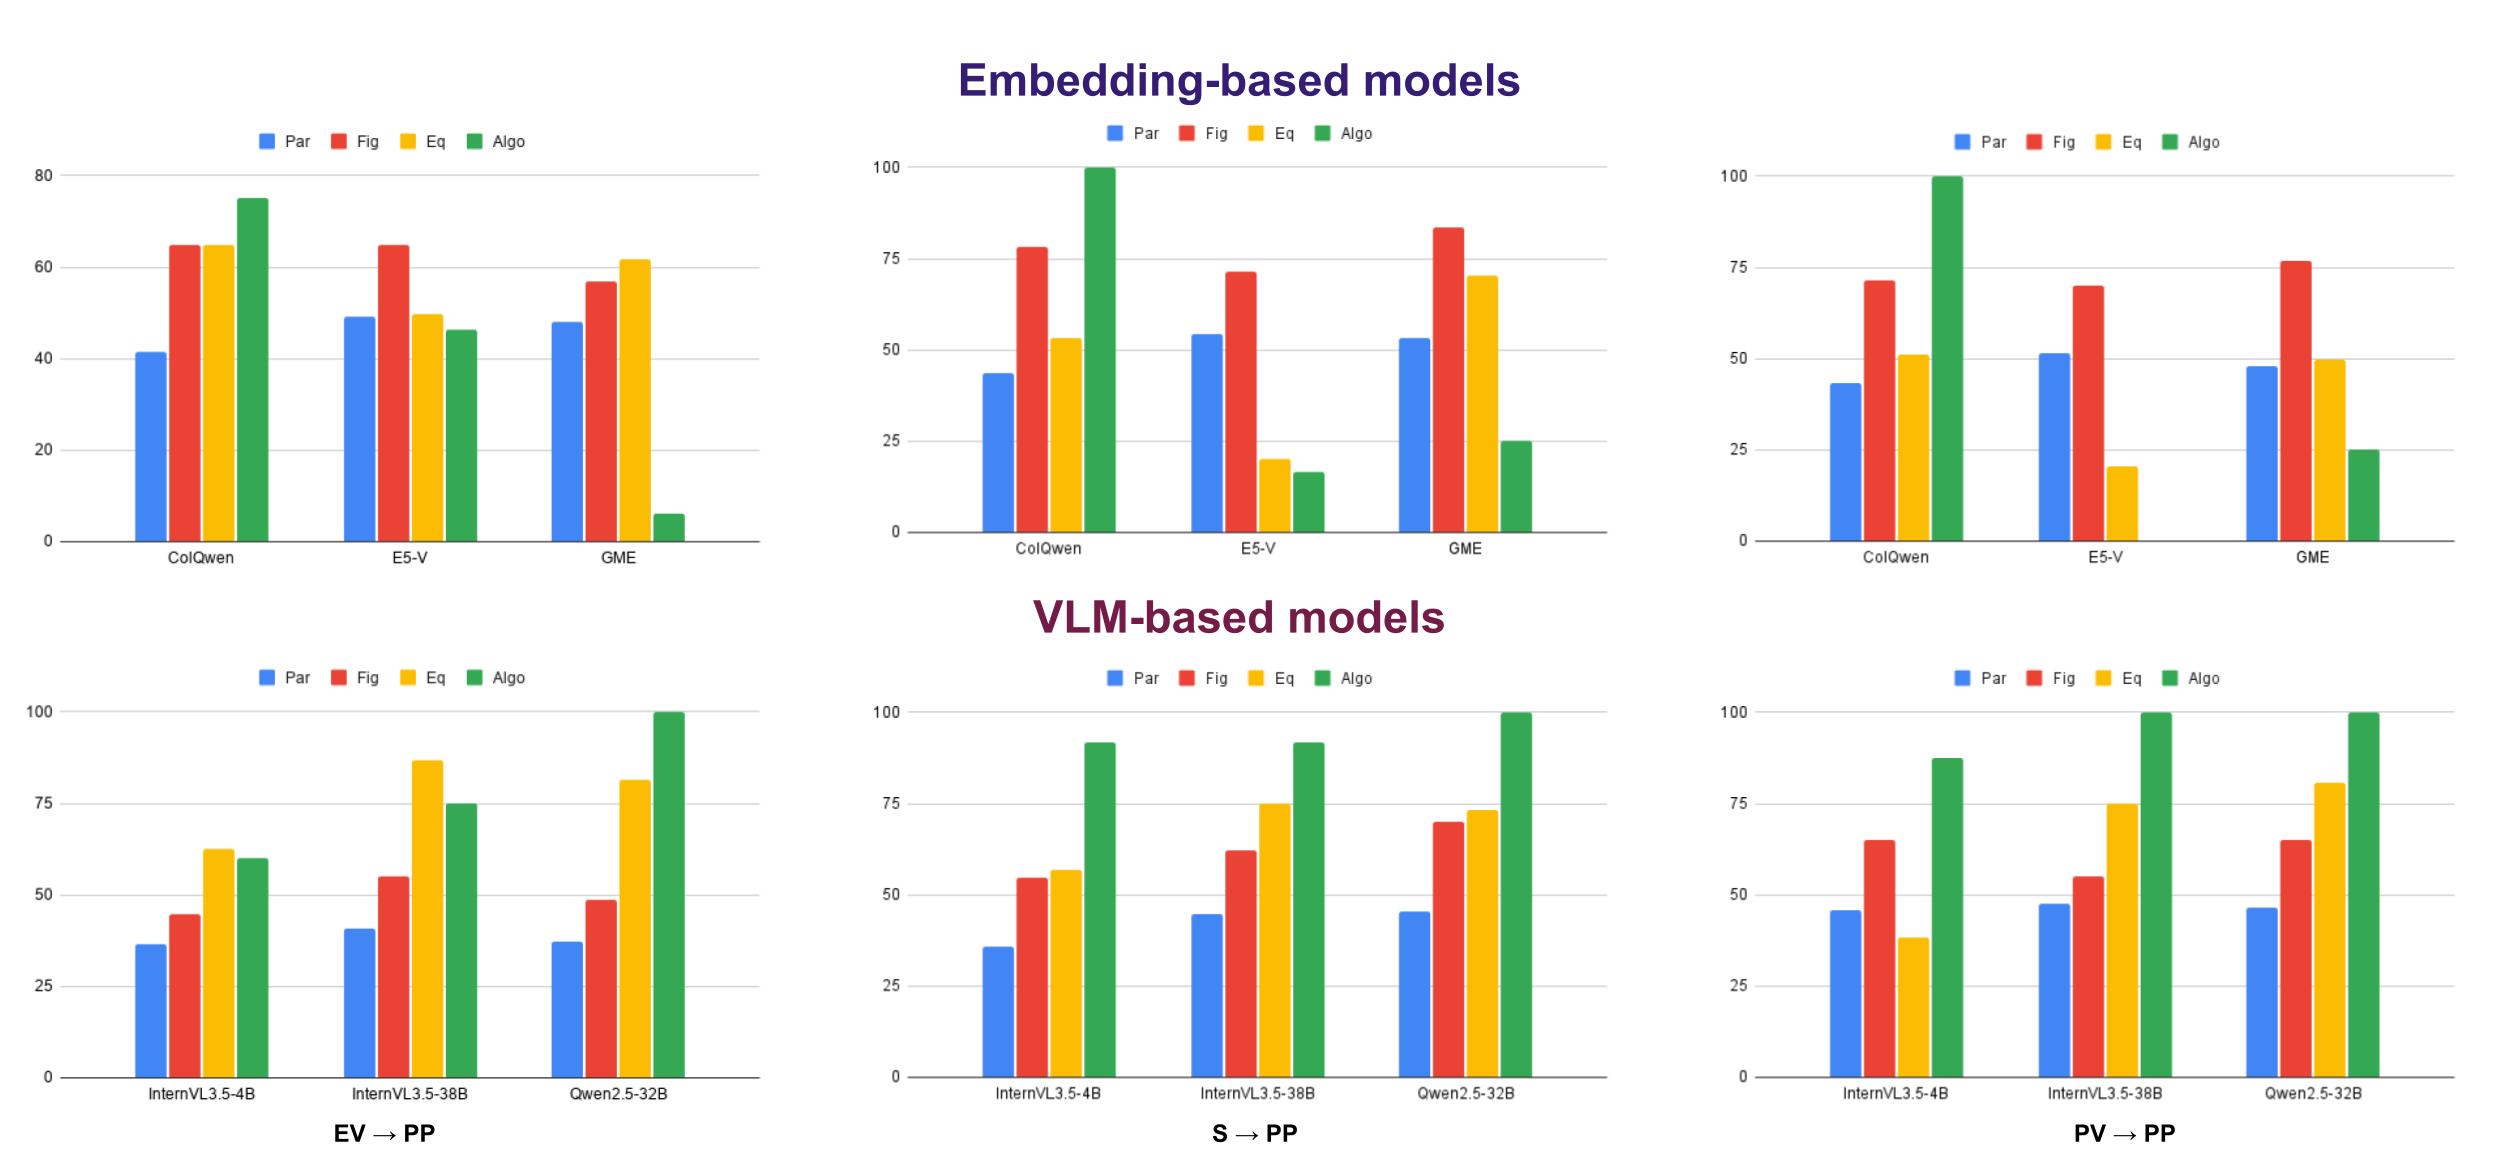
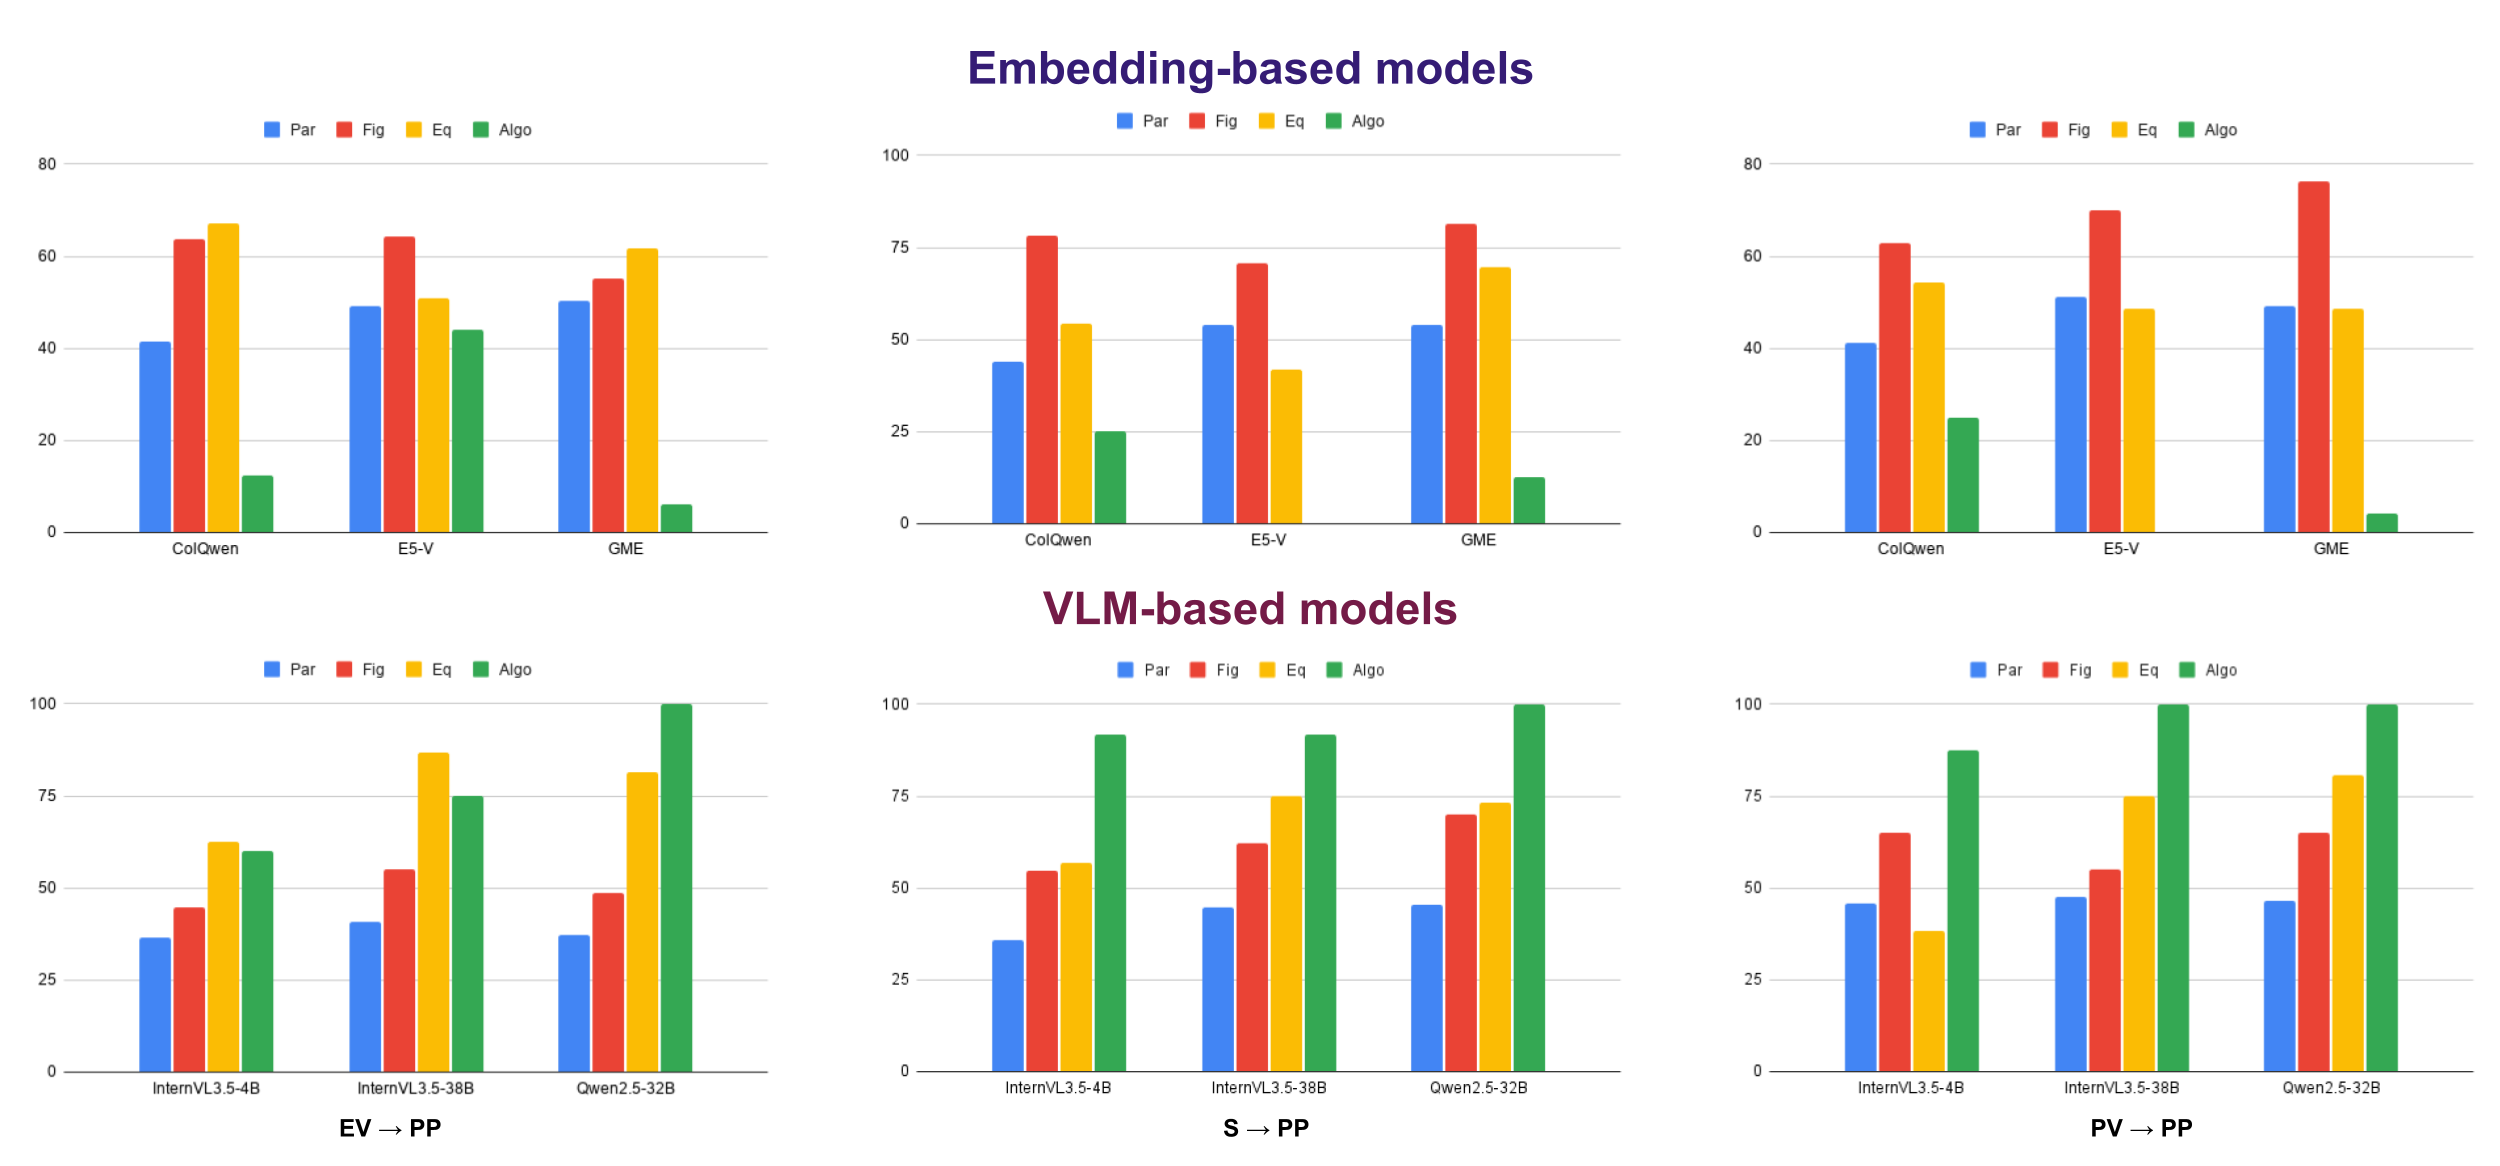
arxiv link

diff --git a/index.html b/index.html
@@ -74,7 +74,7 @@
 
 
   <!-- TODO: Replace with your paper title and authors -->
-  <title>PAPER_TITLE - AUTHOR_NAMES | Academic Research</title>
+  <title>Unifying Scientific Communication - Megha, Vineeth, Jawahar</title>
   
   
   
@@ -215,24 +215,25 @@
                     <div class="publication-links">
                          <!-- TODO: Update with your arXiv paper ID -->
                       <span class="link-block">
-                        <a href="https://arxiv.org/pdf/<ARXIV PAPER ID>.pdf" target="_blank"
-                        class="external-link button is-normal is-rounded is-dark">
+                      <a href="2026124838.pdf" target="_blank"
+                      class="external-link button is-normal is-rounded is-dark">
                         <span class="icon">
                           <i class="fas fa-file-pdf"></i>
                         </span>
                         <span>Paper</span>
                       </a>
                     </span>
-
                     <!-- TODO: Add your supplementary material PDF or remove this section -->
                     <span class="link-block">
-                      <a href="static/pdfs/supplementary_material.pdf" target="_blank"
-                      class="external-link button is-normal is-rounded is-dark">
-                      <span class="icon">
-                        <i class="fas fa-file-pdf"></i>
+                      <span class="link-block">
+                        <a href="40322_supp.pdf" target="_blank"
+                        class="external-link button is-normal is-rounded is-dark">
+                          <span class="icon">
+                            <i class="fas fa-file-pdf"></i>
+                          </span>
+                          <span>Supplementary</span>
+                        </a>
                       </span>
-                      <span>Supplementary</span>
-                    </a>
                   </span>
 
                   <!-- TODO: Replace with your GitHub repository URL -->
@@ -248,7 +249,7 @@
 
                 <!-- TODO: Update with your arXiv paper ID -->
                 <span class="link-block">
-                  <a href="https://arxiv.org/abs/<ARXIV PAPER ID>" target="_blank"
+                  <a href="https://arxiv.org/abs/2605.05831" target="_blank"
                   class="external-link button is-normal is-rounded is-dark">
                   <span class="icon">
                     <i class="ai ai-arxiv"></i>
@@ -275,7 +276,8 @@
         <div class="content has-text-justified">
           <!-- TODO: Replace with your paper abstract -->
           <p>
-            The communication of scientific knowledge has become increasingly multimodal, spanning text, visuals, and speech through materials such as research papers, slides, and recorded presentations. These different representations collectively convey a study’s reasoning, results, and insights, offering complementary perspectives that enrich understanding. However, despite their shared purpose, such materials are rarely connected in a structured way. The absence of explicit links across formats makes it difficult to trace how concepts, visuals, and explanations correspond, limiting unified exploration and analysis of research content. To address this gap, we introduce the Multimodal Conference Dataset (MCD), the first benchmark that integrates research papers, presentation videos, explanatory videos, and slides from the same works. We evaluate a range of embedding-based and vision–language models to assess their ability to discover fine-grained cross-format correspondences, establishing the first systematic benchmark for this task. Our results show that vision–language models are robust but struggle with fine-grained alignment, while embedding-based models capture text–visual correspondences well but equations and symbolic content form distinct clusters in the embedding space. These findings highlight both the strengths and limitations of current approaches and point to key directions for future research in multimodal scientific understanding.
+            The communication of scientific knowledge has become increasingly multimodal, spanning text, visuals, and speech through materials such as research papers, slides, and recorded presentations. These different representations collectively convey a study’s reasoning, results, and insights, offering complementary perspectives that enrich understanding. However, despite their shared purpose, such materials are rarely connected in a structured way. The absence of explicit links across formats makes it difficult to trace how concepts, visuals, and explanations correspond, limiting unified exploration and analysis of research content.
+To address this gap, we introduce the \textit{Multimodal Conference Dataset (MCD)}, the first benchmark that integrates research papers, presentation videos, explanatory videos, and slides from the same works. We evaluate a range of embedding-based and vision–language models to assess their ability to discover fine-grained cross-format correspondences, establishing the first systematic benchmark for this task. Our results show that vision–language models are robust but struggle with fine-grained alignment, while embedding-based models capture text–visual correspondences well but equations and symbolic content form distinct clusters in the embedding space. These findings highlight both the strengths and limitations of current approaches and point to key directions for future research in multimodal scientific understanding. 
           </p>
         </div>
       </div>
@@ -322,12 +324,13 @@
               <!-- EV -->
               <tr><td colspan="10"><b>Traversal: EV → PP</b></td></tr>
 
-              <tr><td>ColQwen2-VL</td><td>2.21B</td><td>47.27</td><td>41.52</td><td>40.16</td><td>61.40</td><td>64.90</td><td>63.16</td><td>64.98</td><td>75</td></tr>
-              <tr><td>E5-V</td><td>8.4B</td><td>50.00</td><td>49.09</td><td>47.53</td><td>62.96</td><td>64.95</td><td>38.46</td><td>49.79</td><td>46.43</td></tr>
+              <!-- EV -->
+              <tr><td>ColQwen2-VL</td><td>2.21B</td><td>47.27</td><td>41.52</td><td>40.37</td><td>61.40</td><td>63.80</td><td>63.16</td><td>67.01</td><td>12.50</td></tr>
+              <tr><td>E5-V</td><td>8.4B</td><td>50.29</td><td>49.05</td><td>47.50</td><td>62</td><td>64.40</td><td>39.71</td><td>50.84</td><td>44</td></tr>
               <tr><td>GME-Qwen2VL-2B (w/o instr.)</td><td>2.2B</td><td>53.64</td><td>48.10</td><td>46.28</td><td>54.39</td><td>56.96</td><td>57.89</td><td>61.75</td><td>6.25</td></tr>
               <tr><td>GME-Qwen2VL-2B (with instr.)</td><td>2.2B</td><td>53.64</td><td>50.21</td><td>49.70</td><td>50.88</td><td>55.23</td><td>52.63</td><td>61.84</td><td>6.25</td></tr>
-              <tr><td>GME-Qwen2VL-7B (w/o instr.)</td><td>8.2B</td><td>47.27</td><td>44.90</td><td>45.18</td><td>38.60</td><td>45.67</td><td>47.37</td><td>47.90</td><td>62.50</td></tr>
-              <tr><td>GME-Qwen2VL-7B (with instr.)</td><td>8.2B</td><td>50.91</td><td>48.19</td><td>46.47</td><td>47.37</td><td>51.30</td><td>47.37</td><td>53.26</td><td>62.50</td></tr>
+              <tr><td>GME-Qwen2VL-7B (w/o instr.)</td><td>8.2B</td><td>47.27</td><td>44.90</td><td>45.18</td><td>38.60</td><td>45.67</td><td>47.37</td><td>47.90</td><td>62.5</td></tr>
+              <tr><td>GME-Qwen2VL-7B (with instr.)</td><td>8.2B</td><td>50.91</td><td>48.19</td><td>46.47</td><td>47.37</td><td>51.30</td><td>47.37</td><td>53.26</td><td>62.5</td></tr>
               <tr><td>InternVL3.5-4B</td><td>4B</td><td>36.29</td><td>36.45</td><td>34.79</td><td>39.34</td><td>44.68</td><td>61.90</td><td>62.39</td><td>60</td></tr>
               <tr><td>InternVL3.5-38B</td><td>38B</td><td>39.09</td><td>40.72</td><td>40.71</td><td>47.37</td><td>55.12</td><td>84.21</td><td>86.78</td><td>75</td></tr>
               <tr><td>Qwen2.5-VL-32B</td><td>32B</td><td>34.55</td><td>37.19</td><td>38.98</td><td>43.86</td><td>48.72</td><td>73.68</td><td>81.61</td><td>100</td></tr>
@@ -335,14 +338,12 @@
               <tr><td><b>Gemini-2.5 Pro</b></td><td>-</td><td><b>62.73</b></td><td><b>60.84</b></td><td><b>60.28</b></td><td><b>71.93</b></td><td><b>77.89</b></td><td><b>94.74</b></td><td><b>88.63</b></td><td>75</td></tr>
 
               <!-- S -->
-              <tr><td colspan="10"><b>Traversal: S → PP</b></td></tr>
-
-              <tr><td>ColQwen2-VL</td><td>2.21B</td><td>48.48</td><td>43.68</td><td>45.23</td><td>68.18</td><td>78.22</td><td>50.98</td><td>53.45</td><td>100</td></tr>
-              <tr><td>E5-V</td><td>8.4B</td><td>58.06</td><td>54.18</td><td>55.76</td><td>63.16</td><td>71.46</td><td>18.00</td><td>20.04</td><td>16.67</td></tr>
-              <tr><td>GME-Qwen2VL-2B (w/o instr.)</td><td>2.2B</td><td>58.18</td><td>53.44</td><td>54.38</td><td>75.00</td><td>83.60</td><td>68.63</td><td>70.54</td><td>25</td></tr>
-              <tr><td>GME-Qwen2VL-2B (with instr.)</td><td>2.2B</td><td>58.18</td><td>53.85</td><td>54.72</td><td>72.73</td><td>81.33</td><td>68.63</td><td>69.78</td><td>39.58</td></tr>
-              <tr><td>GME-Qwen2VL-7B (w/o instr.)</td><td>8.2B</td><td>52.12</td><td>49.76</td><td>51.40</td><td>77.27</td><td>83.01</td><td>66.67</td><td>66.39</td><td>0</td></tr>
-              <tr><td>GME-Qwen2VL-7B (with instr.)</td><td>8.2B</td><td>55.15</td><td>52.11</td><td>54.01</td><td>77.27</td><td>85.88</td><td>68.63</td><td>67.59</td><td>0</td></tr>
+              <tr><td>ColQwen2-VL</td><td>2.21B</td><td>47.88</td><td>44.02</td><td>45.03</td><td>68.18</td><td>78.22</td><td>50.98</td><td>54.21</td><td>25</td></tr>
+              <tr><td>E5-V</td><td>8.4B</td><td>56.97</td><td>54.02</td><td>54.80</td><td>63.64</td><td>70.81</td><td>43.14</td><td>41.82</td><td>0</td></tr>
+              <tr><td>GME-Qwen2VL-2B (w/o instr.)</td><td>2.2B</td><td>58.79</td><td>53.58</td><td>54.48</td><td>75</td><td>83.60</td><td>68.63</td><td>70.54</td><td>8.33</td></tr>
+              <tr><td>GME-Qwen2VL-2B (with instr.)</td><td>2.2B</td><td>58.18</td><td>54.08</td><td>54.76</td><td>72.73</td><td>81.33</td><td>68.63</td><td>69.78</td><td>12.50</td></tr>
+              <tr><td>GME-Qwen2VL-7B (w/o instr.)</td><td>8.2B</td><td>52.12</td><td>50</td><td>51.45</td><td>77.27</td><td>83.01</td><td>66.67</td><td>66.39</td><td>0</td></tr>
+              <tr><td>GME-Qwen2VL-7B (with instr.)</td><td>8.2B</td><td>55.15</td><td>52.35</td><td>53.89</td><td>77.27</td><td>85.88</td><td>68.63</td><td>68.35</td><td>0</td></tr>
               <tr><td>InternVL3.5-4B</td><td>4B</td><td>33.33</td><td>35.92</td><td>37.71</td><td>40.91</td><td>54.69</td><td>50.98</td><td>56.97</td><td>91.67</td></tr>
               <tr><td>InternVL3.5-38B</td><td>38B</td><td>42.42</td><td>44.58</td><td>47.55</td><td>50.00</td><td>62.03</td><td>70.59</td><td>75.06</td><td>91.67</td></tr>
               <tr><td>Qwen2.5-VL-32B</td><td>32B</td><td>46.06</td><td>45.60</td><td>50.60</td><td>59.09</td><td>70.01</td><td>64.71</td><td>73.17</td><td>100</td></tr>
@@ -350,20 +351,17 @@
               <tr><td><b>Gemini-2.5 Pro</b></td><td>-</td><td><b>66.06</b></td><td><b>62.85</b></td><td><b>64.87</b></td><td><b>79.55</b></td><td><b>85.84</b></td><td><b>90.20</b></td><td><b>88.40</b></td><td>100</td></tr>
 
               <!-- PV -->
-              <tr><td colspan="10"><b>Traversal: PV → PP</b></td></tr>
-
-              <tr><td>ColQwen2-VL</td><td>2.21B</td><td>47.03</td><td>43.43</td><td>43.74</td><td>58.70</td><td>71.35</td><td>49.02</td><td>51.02</td><td>100</td></tr>
-              <tr><td>E5-V</td><td>8.4B</td><td>54.05</td><td>51.42</td><td>54.07</td><td>60.87</td><td>69.94</td><td>17.65</td><td>20.40</td><td>0</td></tr>
-              <tr><td>GME-Qwen2VL-2B (w/o instr.)</td><td>2.2B</td><td>52.97</td><td>47.85</td><td>48.54</td><td>65.22</td><td>76.72</td><td>49.02</td><td>49.70</td><td>50</td></tr>
-              <tr><td>GME-Qwen2VL-2B (with instr.)</td><td>2.2B</td><td>55.14</td><td>48.82</td><td>49.02</td><td>67.39</td><td>77.52</td><td>45.10</td><td>50.05</td><td>41.67</td></tr>
-              <tr><td>GME-Qwen2VL-7B (w/o instr.)</td><td>8.2B</td><td>55.14</td><td>49.39</td><td>49.76</td><td>69.57</td><td>79.70</td><td>60.78</td><td>61.26</td><td>37.50</td></tr>
-              <tr><td>GME-Qwen2VL-7B (with instr.)</td><td>8.2B</td><td>54.59</td><td>48.64</td><td>49.88</td><td>65.22</td><td>78.40</td><td>62.75</td><td>62.47</td><td>56.25</td></tr>
+              <tr><td>ColQwen2-VL</td><td>2.21B</td><td>46.49</td><td>41.16</td><td>41.90</td><td>47.83</td><td>62.91</td><td>50.98</td><td>54.21</td><td>25</td></tr>
+              <tr><td>E5-V</td><td>8.4B</td><td>54.05</td><td>51.29</td><td>53.91</td><td>60.87</td><td>69.94</td><td>47.06</td><td>48.49</td><td>0</td></tr>
+              <tr><td>GME-Qwen2VL-2B (w/o instr.)</td><td>2.2B</td><td>52.97</td><td>48.06</td><td>48.57</td><td>65.22</td><td>76.72</td><td>49.02</td><td>49.70</td><td>4.17</td></tr>
+              <tr><td>GME-Qwen2VL-2B (with instr.)</td><td>2.2B</td><td>55.14</td><td>49.24</td><td>49.85</td><td>67.39</td><td>76.15</td><td>45.10</td><td>48.53</td><td>4.17</td></tr>
+              <tr><td>GME-Qwen2VL-7B (w/o instr.)</td><td>8.2B</td><td>55.14</td><td>49.39</td><td>49.63</td><td>69.57</td><td>79.70</td><td>60.78</td><td>61.26</td><td>0</td></tr>
+              <tr><td>GME-Qwen2VL-7B (with instr.)</td><td>8.2B</td><td>55.68</td><td>49.30</td><td>50.02</td><td>65.22</td><td>78.40</td><td>62.75</td><td>62.47</td><td>4.17</td></tr>
               <tr><td>InternVL3.5-4B</td><td>4B</td><td>46.56</td><td>45.88</td><td>47.32</td><td>59.18</td><td>65.12</td><td>37.25</td><td>38.21</td><td>87.50</td></tr>
               <tr><td>InternVL3.5-38B</td><td>38B</td><td>49.73</td><td>47.70</td><td>48.98</td><td>47.83</td><td>55.21</td><td>75.00</td><td>75.00</td><td>100</td></tr>
               <tr><td>Qwen2.5-VL-32B</td><td>32B</td><td>44.86</td><td>46.39</td><td>49.41</td><td>52.17</td><td>65.05</td><td>74.51</td><td>80.70</td><td>100</td></tr>
               <tr><td><b>Gemini-2.5 Pro</b></td><td>-</td><td><b>59.46</b></td><td><b>58.66</b></td><td><b>61.20</b></td><td><b>78.26</b></td><td><b>81.53</b></td><td><b>86.27</b></td><td><b>89.99</b></td><td>100</td></tr>
               <tr><td>Gemini-2.5 Flash</td><td>-</td><td>59.46</td><td>56.22</td><td>57.22</td><td>76.09</td><td>81.57</td><td>82.35</td><td>86.06</td><td>100</td></tr>
-
             </tbody>
           </table>
         </div>
@@ -384,7 +382,7 @@
         <img src="static/images/Stat.png" alt="First research result visualization" loading="lazy"/>
         <!-- TODO: Replace with description of this result -->
         <h2 class="subtitle has-text-centered">
-          Statistics of the Explanation and Presentation sets:} (a) and (d) show the distribution of algorithms, equations, tables, and figures in the papers; (b) presents the word cloud generated from ASR transcripts; (e) presents the word cloud generated from slide text and ASR transcripts; (c) and (f) depict the number of videos per segment category.
+          Statistics of the Explanation and Presentation sets: (a) and (d) show the distribution of algorithms, equations, tables, and figures in the papers; (b) presents the word cloud generated from ASR transcripts; (e) presents the word cloud generated from slide text and ASR transcripts; (c) and (f) depict the number of videos per segment category.
         </h2>
       </div>
       <div class="item">
@@ -398,14 +396,14 @@
         <!-- Your image here -->
         <img src="static/images/Comp.png" alt="Third research result visualization" loading="lazy"/>
         <h2 class="subtitle has-text-centered">
-          Illustrates the performance of embedding-based and VLM-based models across all three traversal settings (EV $\to$ PP, S $\to$ PP, PV $\to$ PP). NDCG@2 scores are used for paragraphs, figures, and equations. For algorithms, recall is calculated using a threshold of 0.6.
+          Illustrates the performance of embedding-based and VLM-based models across all three traversal settings (EV → PP, S → PP, and PV → PP). NDCG@2 scores are used for paragraphs, figures, and equations. For algorithms, recall is calculated using a threshold of 0.6.
        </h2>
      </div>
      <div class="item">
       <!-- Your image here -->
       <img src="static/images/E.png" alt="Fourth research result visualization" loading="lazy"/>
       <h2 class="subtitle has-text-centered">
-        Visualization of query and candidate embeddings for representative instances across all three settings: EX $\to$ PP, S $\to$ PP, and PV $\to$ PP. Zoom in for a better view.
+        Visualization of query and candidate embeddings for representative instances across all three settings: EV → PP, S → PP, and PV → PP. Zoom in for a better view.
       </h2>
     </div>
   </div>